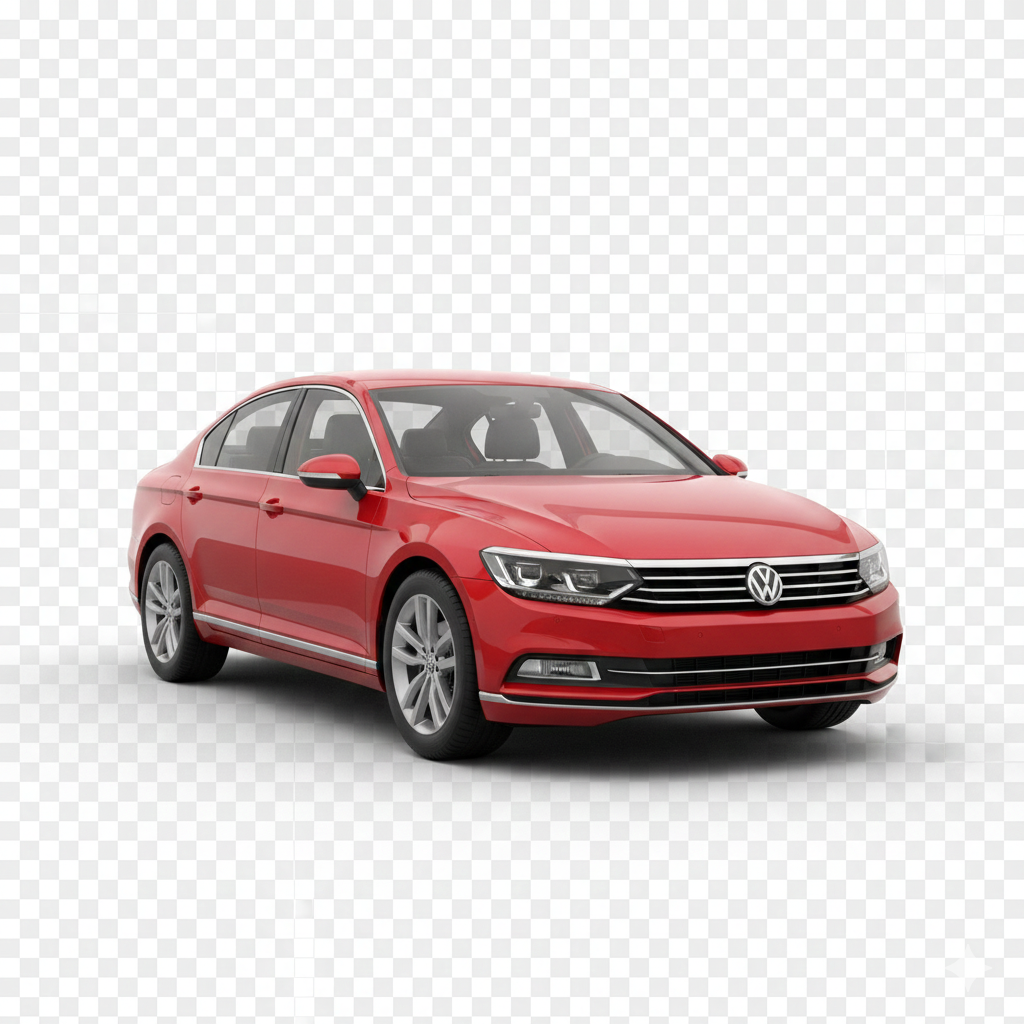
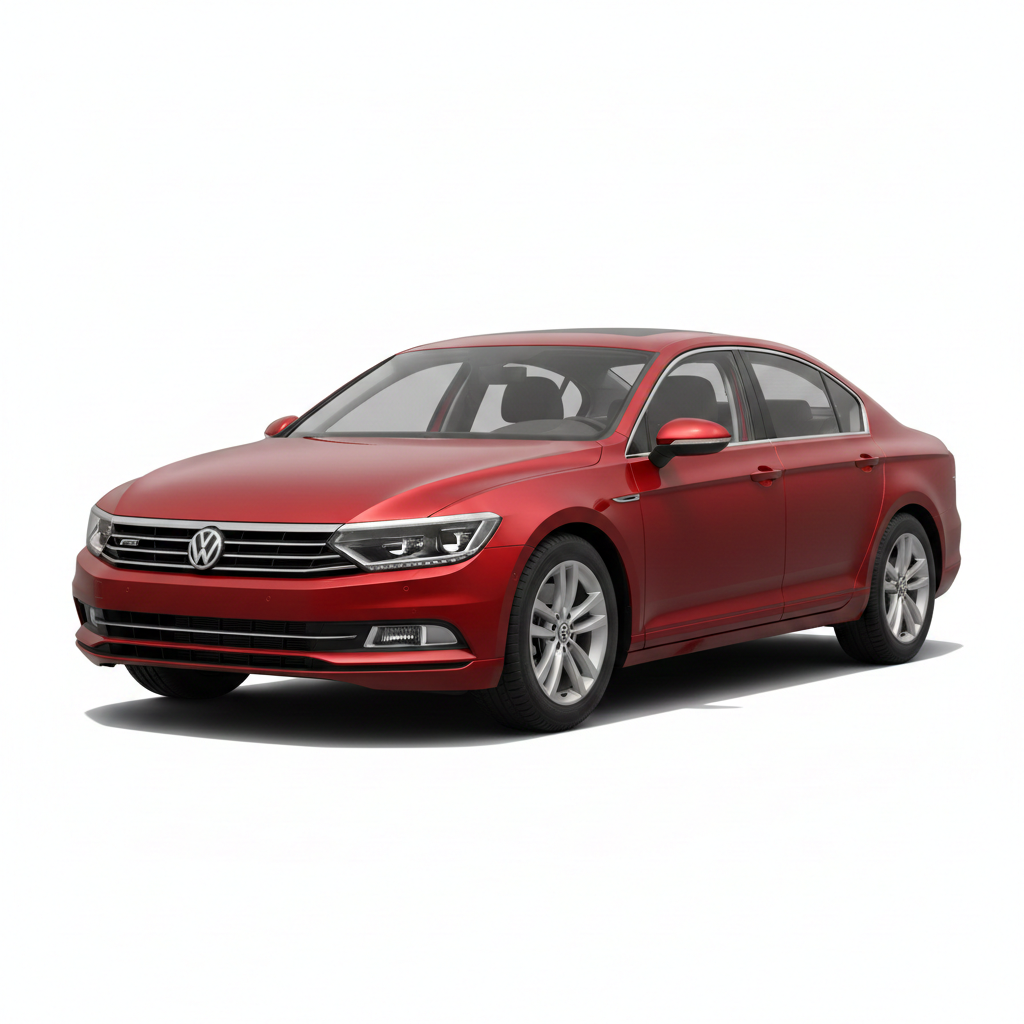
Fix Volkswagen Passat and Ameo image paths

diff --git a/Frontend/src/components/BrandSelectorModal.tsx b/Frontend/src/components/BrandSelectorModal.tsx
@@ -369,9 +369,11 @@ const BrandSelectorModal = ({
           } else if (cleanVWName === 'troc') {
             volkswagenFileName = 'T-Roc';
           } else if (cleanVWName === 'passat') {
-            volkswagenFileName = 'passat';
+            volkswagenFileName = 'Passat';
           } else if (cleanVWName === 'polo') {
             volkswagenFileName = 'polo';
+          } else if (cleanVWName === 'ameo') {
+            volkswagenFileName = 'Ameo';
           }
           
           imagePath = `/images/Car_images/Volkswagen/${volkswagenFileName}.png`;
